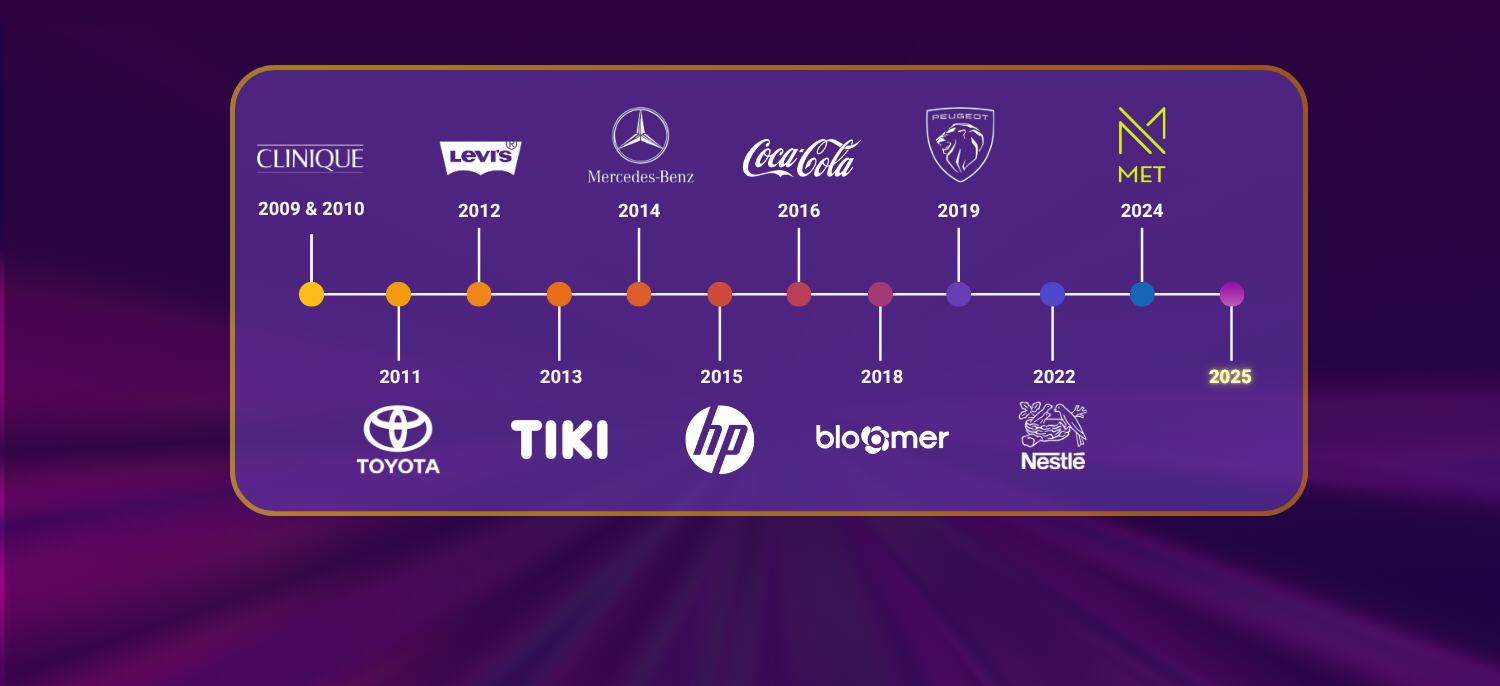
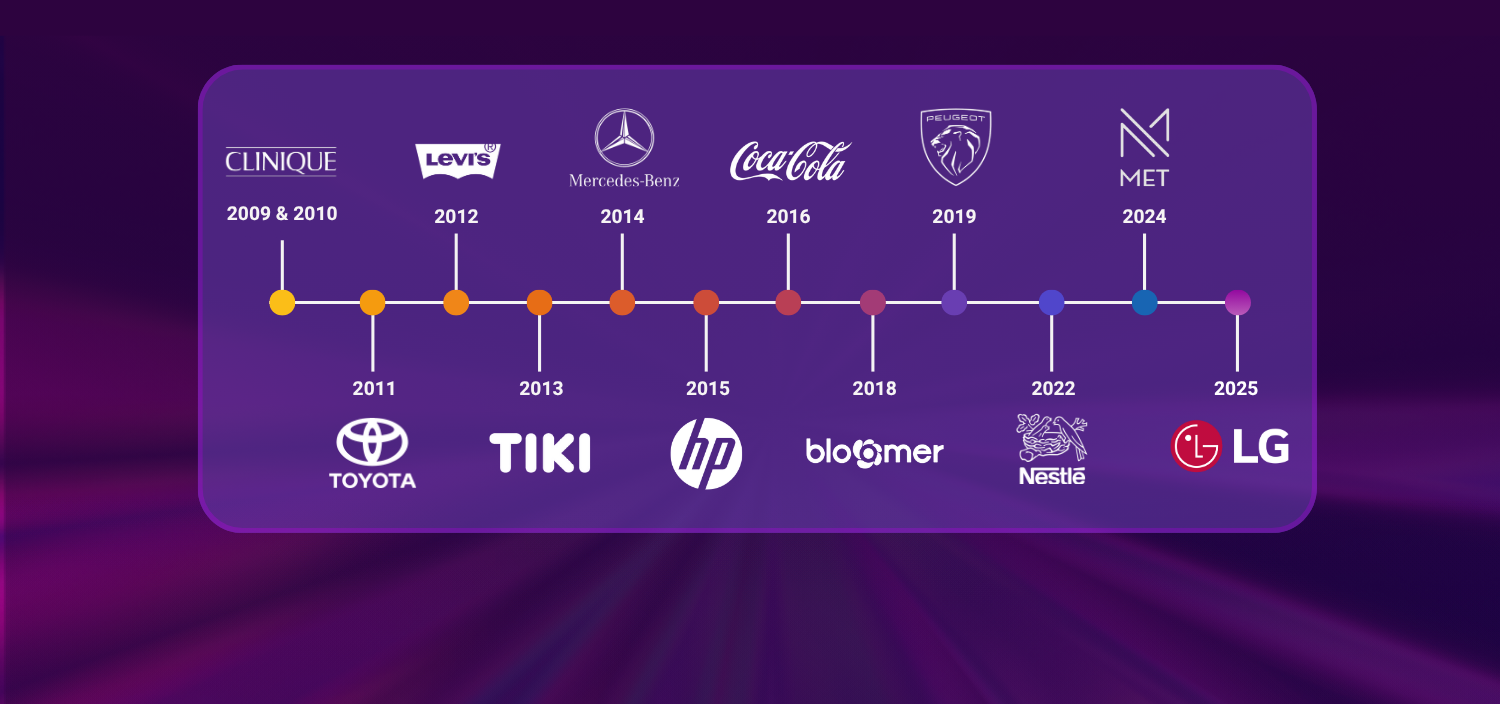
update LG

diff --git a/pages/index.js b/pages/index.js
@@ -165,7 +165,7 @@ style={{ transform: "translateY(-50px)" }}>
       {/* Sponsor Page */}
       <section className="relative w-full">
   <img
-    src="/season13/IMAGE/SPONSORHOME.png"
+    src="/season13/IMAGE/SPONSORHOME1.png"
     alt="sponsorship background"
     className="w-screen h-auto object-contain block"
   />
